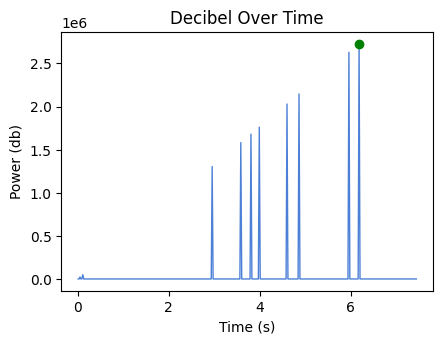
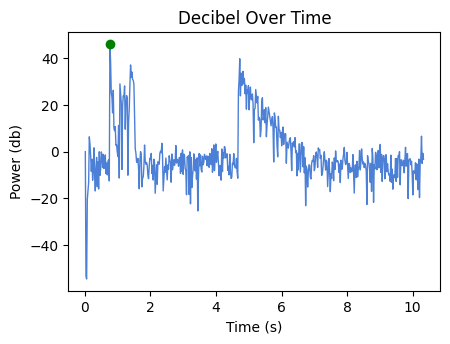
Fixed some errors in Acoustic Modelling code, added final functionality to GUI, removed ability to convert stereo to mono and mp3 to wave. Now only works with mono wave.

diff --git a/modules/AcousticModel.py b/modules/AcousticModel.py
@@ -11,12 +11,11 @@ class AcousticModel:
             Fs=self.__sample_rate,
             NFFT=1024,
             cmap=plt.get_cmap('autumn_r'))
-        self.__cbar = plt.colorbar(self.__im)
         self.__target_frequency = 0
         self.find_target_frequency()
         self.__index_of_frequency = np.where(self.__frequencies == self.__target_frequency)[0][0]
         self.__data_for_frequency = self.__spectrum[self.__index_of_frequency]
-        self.__data_in_db = 10 * np.log10(self.__data_for_frequency, where=self.__data_for_frequency > 0.1)
+        self.__data_in_db = 10 * np.log10(self.__data_for_frequency, where=self.__data_for_frequency > 0)
         self.__index_of_max = np.argmax(self.__data_in_db)
         self.__value_of_max = self.__data_in_db[self.__index_of_max]
         self.__rt60 = 0
@@ -25,7 +24,7 @@ class AcousticModel:
         for x in self.__frequencies:
             if x > 1000:
                 break
-        return x
+        self.__target_frequency = x
 
     def get_decibel_over_time(self):
         plt.figure().set_size_inches(4.80, 3.36)
@@ -36,6 +35,7 @@ class AcousticModel:
         plt.plot(self.__t[self.__index_of_max], self.__data_in_db[self.__index_of_max], 'go')
 
         plt.savefig(f"./assets/graphs/decibel_over_time.png", bbox_inches="tight")
+        plt.close()
         return f"./assets/graphs/decibel_over_time.png"
 
     def get_spectrogram(self):
@@ -51,17 +51,21 @@ class AcousticModel:
         plt.ylabel('Frequency (Hz)')
 
         plt.savefig(f"./assets/graphs/spectrogram.png", bbox_inches="tight")
+        plt.close()
         return f"./assets/graphs/spectrogram.png"
 
     def get_rt60_graph(self):
-        plt.figure().set_size_inches(4.80, 3.36)
-
         def find_nearest_value(array, value):
             array = np.asarray(array)
             idx = (np.abs(array - value)).argmin()
             return array[idx]
 
         sliced_array = self.__data_in_db[self.__index_of_max:]
+        plt.figure().set_size_inches(4.80, 3.36)
+        plt.plot(self.__t[self.__index_of_max:], sliced_array)
+        plt.title(f"RT20")
+        plt.xlabel('Time (s)')
+        plt.ylabel("Power (db)")
 
         value_of_max_less_5 = self.__value_of_max - 5
         value_of_max_less_5 = find_nearest_value(sliced_array, value_of_max_less_5)
@@ -72,18 +76,15 @@ class AcousticModel:
         value_of_max_less_25 = find_nearest_value(sliced_array, value_of_max_less_25)
         index_of_max_less_25 = np.where(self.__data_in_db == value_of_max_less_25)
         plt.plot(self.__t[index_of_max_less_25], self.__data_in_db[index_of_max_less_25], 'ro')
-        plt.title(f"RT60")
 
         rt20 = (self.__t[index_of_max_less_5] - self.__t[index_of_max_less_25])[0]
-        rt60 = rt20 * 3
-
         # RT60 Value
-        self.__rt60 = round(abs(rt60), 2)
+        self.__rt60 = rt20 * 3
+        plt.grid()
 
-        plt.savefig(f"./assets/graphs/rt60_graph.png", bbox_inches="tight")
-        return f"./assets/graphs/rt60_graph.png"
+        plt.savefig(f"./assets/graphs/rt20_graph.png", bbox_inches="tight")
+        plt.close()
+        return f"./assets/graphs/rt20_graph.png"
 
     def get_rt60_value(self):
-        return self.__rt60
-
-
+        return round(abs(self.__rt60), 2)

diff --git a/gui.py b/gui.py
@@ -50,7 +50,9 @@ class Controller:
             canvas.itemconfig(image_2, image_image_2.configure(file=self.__graphs[self.__current_index]))
 
     def __run_model(self):
-        CleanUp(self.__filename).convert()
+        # self.__filename = CleanUp(self.__filename).convert()
+        # could not get conversions to work
+
         self.__update_label(entry_2, f"Time (Seconds):\n{WaveManip(self.__filename).get_time()}")
 
         acoustic_model = AcousticModel(self.__filename)
@@ -60,6 +62,9 @@ class Controller:
         self.__graphs.append(acoustic_model.get_spectrogram())
         self.__graphs.append(acoustic_model.get_rt60_graph())
         self.calc_max()
+
+        self.__update_label(entry_3, f"RT60 Value (Seconds):\n{acoustic_model.get_rt60_value()}")
+        self.__update_label(entry_4, f"Highest Frequency (Hz):\n{WaveManip(self.__filename).get_highest_freq()}")
         canvas.itemconfig(image_2, image_image_2.configure(file=self.__graphs[0]))
 
     @staticmethod
@@ -68,6 +73,11 @@ class Controller:
 
     def browse_files(self):
         try:
+            self.__filename = ""
+            self.__graphs = []
+            self.__current_index = 0
+            self.__max = 0
+            self.__stream = ""
             self.__filename = filedialog.askopenfilename(initialdir=".",
                                                   title="Select a File",
                                                   filetypes=(("WAVE file",
@@ -98,7 +108,7 @@ window = Tk()
 
 window.geometry("750x500")
 window.configure(bg = "#FFFFFF")
-
+window.title("COP2080 Acoustic Modelling Project")
 
 canvas = Canvas(
     window,
@@ -242,7 +252,7 @@ entry_bg_4 = canvas.create_image(
     358.0,
     image=entry_image_4
 )
-entry_4 = Text(
+entry_4 = Label(
     bd=0,
     bg="#D9D9D9",
     fg="#000716",

diff --git a/modules/CleanUp.py b/modules/CleanUp.py
@@ -1,30 +1,25 @@
-import ffmpeg
+import pydub
 import wave
+from pathlib import Path
 
 
 class CleanUp:
     def __init__(self, stream: str):
-        self._stream = stream
+        self._stream = str(Path(stream))
 
     def convert(self):
         if str(self._stream.split(".", 1)[1].upper()) == "MP3":
-            (
-                ffmpeg
-                .input(self._stream)
-                .output(self._stream.replace(".mp3", ".wav"), ac=1)
-                .run(overwrite_output=True, quiet=True)
-            )
-            return self._stream.replace(".mp3", ".wav")
+            stream = pydub.AudioSegment.from_mp3(self._stream)
+            stream = stream.set_channels(1)
+            stream.export(str(Path(f'../sound-files/new.wav')), format="wav")
+            return str(Path(f'../sound-files/new.wav'))
         elif str(self._stream.split(".", 1)[1].upper()) == "WAV":
             wr = wave.open(self._stream, 'r')
             if wr.getnchannels() >= 2:
-                (
-                    ffmpeg
-                    .input(self._stream)
-                    .output(f'{self._stream}-Mono', ac=1)
-                    .run(overwrite_output=True, quiet=True)
-                )
                 wr.close()
-                return f'{self._stream}-Mono'
+                stream = pydub.AudioSegment.from_wav(self._stream)
+                stream = stream.set_channels(1)
+                stream.export(f'{self._stream}-new', format="wav")
+                return str(Path(f'{self._stream}-new'))
             else:
                 return self._stream

diff --git a/modules/WaveManip.py b/modules/WaveManip.py
@@ -16,9 +16,14 @@ class WaveManip:
         plt.figure().set_size_inches(4.80, 3.36)
         plt.title(f"Wave Form")
         plt.plot(self.__time, self.__signal)
+        plt.plot(self.__time[np.argmax(self.__signal)], self.__signal.max(), "yo")
         plt.savefig(f"./assets/graphs/wave_form.png", bbox_inches="tight")
+        plt.close()
         return f"./assets/graphs/wave_form.png"
 
     def get_time(self):
-        return self.__time.max()
+        return round(self.__time.max(), 2)
+
+    def get_highest_freq(self):
+        return self.__signal.max()
 
